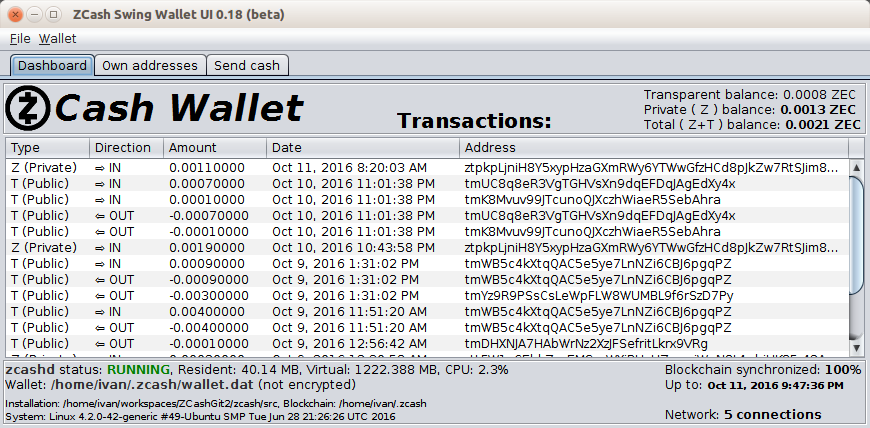
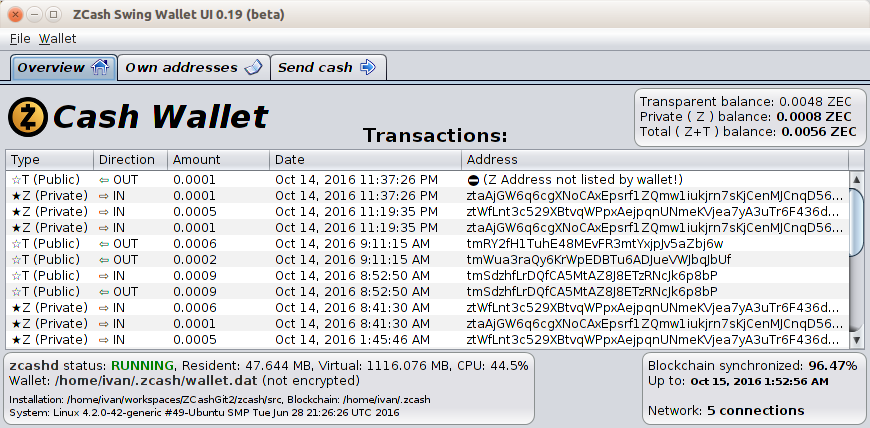
GUI cosmetic improvements

diff --git a/src/java/com/vaklinov/zcashui/PresentationPanel.java b/src/java/com/vaklinov/zcashui/PresentationPanel.java
@@ -1,0 +1,105 @@
+/************************************************************************************************
+ *  _________          _     ____          _           __        __    _ _      _   _   _ ___
+ * |__  / ___|__ _ ___| |__ / ___|_      _(_)_ __   __ \ \      / /_ _| | | ___| |_| | | |_ _|
+ *   / / |   / _` / __| '_ \\___ \ \ /\ / / | '_ \ / _` \ \ /\ / / _` | | |/ _ \ __| | | || |
+ *  / /| |__| (_| \__ \ | | |___) \ V  V /| | | | | (_| |\ V  V / (_| | | |  __/ |_| |_| || |
+ * /____\____\__,_|___/_| |_|____/ \_/\_/ |_|_| |_|\__, | \_/\_/ \__,_|_|_|\___|\__|\___/|___|
+ *                                                 |___/
+ *
+ * Copyright (c) 2016 Ivan Vaklinov <ivan@vaklinov.com>
+ *
+ * Permission is hereby granted, free of charge, to any person obtaining a copy
+ * of this software and associated documentation files (the "Software"), to deal
+ * in the Software without restriction, including without limitation the rights
+ * to use, copy, modify, merge, publish, distribute, sublicense, and/or sell
+ * copies of the Software, and to permit persons to whom the Software is
+ * furnished to do so, subject to the following conditions:
+ *
+ * The above copyright notice and this permission notice shall be included in
+ * all copies or substantial portions of the Software.
+ *
+ * THE SOFTWARE IS PROVIDED "AS IS", WITHOUT WARRANTY OF ANY KIND, EXPRESS OR
+ * IMPLIED, INCLUDING BUT NOT LIMITED TO THE WARRANTIES OF MERCHANTABILITY,
+ * FITNESS FOR A PARTICULAR PURPOSE AND NONINFRINGEMENT. IN NO EVENT SHALL THE
+ * AUTHORS OR COPYRIGHT HOLDERS BE LIABLE FOR ANY CLAIM, DAMAGES OR OTHER
+ * LIABILITY, WHETHER IN AN ACTION OF CONTRACT, TORT OR OTHERWISE, ARISING FROM,
+ * OUT OF OR IN CONNECTION WITH THE SOFTWARE OR THE USE OR OTHER DEALINGS IN
+ * THE SOFTWARE.
+ **********************************************************************************/
+package com.vaklinov.zcashui;
+
+import java.awt.BasicStroke;
+import java.awt.Color;
+import java.awt.FlowLayout;
+import java.awt.Graphics;
+import java.awt.Graphics2D;
+import java.awt.LinearGradientPaint;
+import java.awt.RenderingHints;
+import java.awt.Stroke;
+
+import javax.swing.JPanel;
+
+
+/**
+ * Panel with gradient background etc. for pretty label presentations.
+ *
+ * @author Ivan Vaklinov <ivan@vaklinov.com>
+ */
+public class PresentationPanel 
+	extends JPanel 
+{
+	static final int GRADIENT_EXTENT = 17;
+
+	static final Color  colorBorder = new Color(140, 145, 145);
+	static final Color  colorLow    = new Color(250, 250, 250);
+	static final Color  colorHigh   = new Color(225, 225, 230);
+	static final Stroke edgeStroke  = new BasicStroke(1);
+
+	
+	public PresentationPanel()
+	{
+		this.setLayout(new FlowLayout(FlowLayout.LEFT, 6, 6));
+	}
+	
+
+	public void paintComponent(Graphics graphics) 
+	{
+		int h = getHeight();
+		int w =  getWidth();
+		
+		if (h < GRADIENT_EXTENT + 1) 
+		{
+			super.paintComponent(graphics);
+			return;
+		}
+		
+		float percentageOfGradient = (float) GRADIENT_EXTENT / h;
+		
+		if (percentageOfGradient > 0.49f)
+		{
+			percentageOfGradient = 0.49f;
+		}
+		
+		Graphics2D graphics2D = (Graphics2D) graphics;
+		
+		float fractions[] = new float[] 
+		{ 
+			0, percentageOfGradient, 1 - percentageOfGradient, 1f 
+		};
+		
+		Color colors[] = new Color[] 
+		{ 
+			colorLow, colorHigh, colorHigh, colorLow 
+		};
+		
+		LinearGradientPaint paint = new LinearGradientPaint(0, 0, 0, h - 1, fractions, colors);
+		
+		graphics2D.setRenderingHint(RenderingHints.KEY_ANTIALIASING, RenderingHints.VALUE_ANTIALIAS_ON);
+		graphics2D.setPaint(paint);
+		graphics2D.fillRoundRect(0, 0, w - 1, h - 1, GRADIENT_EXTENT, GRADIENT_EXTENT);
+		graphics2D.setColor(colorBorder);
+		graphics2D.setStroke(edgeStroke);
+		graphics2D.drawRoundRect(0, 0, w - 1, h - 1, GRADIENT_EXTENT, GRADIENT_EXTENT);
+	}
+
+}

diff --git a/src/java/com/vaklinov/zcashui/DashboardPanel.java b/src/java/com/vaklinov/zcashui/DashboardPanel.java
@@ -114,24 +114,27 @@ public class DashboardPanel
 		JPanel balanceStatusPanel = new JPanel();
 		// Use border layout to have balances to the left
 		balanceStatusPanel.setLayout(new BorderLayout(3, 3)); 
-		balanceStatusPanel.setBorder(BorderFactory.createEtchedBorder(EtchedBorder.LOWERED));
+		//balanceStatusPanel.setBorder(BorderFactory.createEtchedBorder(EtchedBorder.LOWERED));
 		
-		JPanel tempPanel = new JPanel(new FlowLayout(FlowLayout.LEFT, 0, 0));
+		JPanel tempPanel = new JPanel(new FlowLayout(FlowLayout.LEFT, 5, 9));
 		JLabel logoLabel = new JLabel(new ImageIcon(
-			this.getClass().getClassLoader().getResource("images/zcash-logo-square3.png")));
+			this.getClass().getClassLoader().getResource("images/Z-yellow.orange-logo-small.png")));
 		tempPanel.add(logoLabel);
-		tempPanel.add(new JLabel(" "));
-		JLabel zcLabel = new JLabel("Cash Wallet       ");
-		zcLabel.setFont(new Font("Helvetica", Font.BOLD | Font.ITALIC, 37));
+		//tempPanel.add(new JLabel(" "));
+		JLabel zcLabel = new JLabel("Cash Wallet        ");
+		zcLabel.setFont(new Font("Helvetica", Font.BOLD | Font.ITALIC, 32));
 		tempPanel.add(zcLabel);
 		tempPanel.setToolTipText("Powered by ZCash");
 		balanceStatusPanel.add(tempPanel, BorderLayout.WEST);
 				
-		JLabel transactionHeadingLabel = new JLabel("<html><br/>Transactions:</html>");
-		transactionHeadingLabel.setFont(new Font("Helvetica", Font.BOLD, 20));
+		JLabel transactionHeadingLabel = new JLabel(
+			"<html><span style=\"font-size:23px\"><br/></span>Transactions:</html>");
+		transactionHeadingLabel.setFont(new Font("Helvetica", Font.BOLD, 19));
 		balanceStatusPanel.add(transactionHeadingLabel, BorderLayout.CENTER);
 						
-		balanceStatusPanel.add(walletBalanceLabel = new JLabel(), BorderLayout.EAST);
+		PresentationPanel walletBalancePanel = new PresentationPanel();
+		walletBalancePanel.add(walletBalanceLabel = new JLabel());
+		balanceStatusPanel.add(walletBalancePanel, BorderLayout.EAST);
 		
 		dashboard.add(balanceStatusPanel, BorderLayout.NORTH);
 
@@ -144,9 +147,15 @@ public class DashboardPanel
 		// Lower panel with installation status
 		JPanel installationStatusPanel = new JPanel();
 		installationStatusPanel.setLayout(new BorderLayout(3, 3));
-		installationStatusPanel.setBorder(BorderFactory.createEtchedBorder(EtchedBorder.LOWERED));
-		installationStatusPanel.add(daemonStatusLabel = new JLabel(), BorderLayout.WEST);
-		installationStatusPanel.add(networkAndBlockchainLabel = new JLabel(), BorderLayout.EAST);		
+		//installationStatusPanel.setBorder(BorderFactory.createEtchedBorder(EtchedBorder.LOWERED));
+		PresentationPanel daemonStatusPanel = new PresentationPanel();
+		daemonStatusPanel.add(daemonStatusLabel = new JLabel());
+		installationStatusPanel.add(daemonStatusPanel, BorderLayout.WEST);
+		
+		PresentationPanel networkAndBlockchainPanel = new PresentationPanel();
+		networkAndBlockchainPanel.add(networkAndBlockchainLabel = new JLabel());
+		installationStatusPanel.add(networkAndBlockchainPanel, BorderLayout.EAST);		
+		
 		dashboard.add(installationStatusPanel, BorderLayout.SOUTH);
 
 		// Thread and timer to update the daemon status
@@ -572,7 +581,8 @@ public class DashboardPanel
 				t[2] = df.format(amount);
 			} catch (NumberFormatException nfe)
 			{
-				// TODO: log this
+				System.out.println("Error occurred while formatting amount: " + t[2] + 
+						           " - " + nfe.getMessage() + "!");
 			}
 		}
 

diff --git a/src/java/com/vaklinov/zcashui/ZCashUI.java b/src/java/com/vaklinov/zcashui/ZCashUI.java
@@ -31,6 +31,7 @@ package com.vaklinov.zcashui;
 
 import java.awt.Container;
 import java.awt.Dimension;
+import java.awt.Font;
 import java.awt.event.ActionEvent;
 import java.awt.event.ActionListener;
 import java.awt.event.KeyEvent;
@@ -79,9 +80,10 @@ public class ZCashUI
     public ZCashUI()
         throws IOException, InterruptedException, WalletCallException
     {
-        super("ZCash Swing Wallet UI 0.18 (beta)");
-        this.setIconImage(new ImageIcon(
-        	this.getClass().getClassLoader().getResource("images/Z-yellow.orange-logo.png")).getImage());
+        super("ZCash Swing Wallet UI 0.19 (beta)");
+        ClassLoader cl = this.getClass().getClassLoader();
+        
+        this.setIconImage(new ImageIcon(cl.getResource("images/Z-yellow.orange-logo.png")).getImage());
         
         Container contentPane = this.getContentPane();
         
@@ -91,9 +93,18 @@ public class ZCashUI
                 
         // Build content
         JTabbedPane tabs = new JTabbedPane();
-        tabs.add("Dashboard", dashboard = new DashboardPanel(installationObserver, clientCaller, errorReporter));
-        tabs.add("Own addresses", addresses = new AddressesPanel(clientCaller, errorReporter));
-        tabs.add("Send cash", sendPanel = new SendCashPanel(clientCaller, errorReporter));
+        Font oldTabFont = tabs.getFont();
+        Font newTabFont  = new Font(oldTabFont.getName(), Font.BOLD | Font.ITALIC, oldTabFont.getSize() * 57 / 50);
+        tabs.setFont(newTabFont);
+        tabs.addTab("Overview ",
+        		    new ImageIcon(cl.getResource("images/overview.png")),
+        		    dashboard = new DashboardPanel(installationObserver, clientCaller, errorReporter));
+        tabs.addTab("Own addresses ", 
+        		    new ImageIcon(cl.getResource("images/address-book.png")),
+        		    addresses = new AddressesPanel(clientCaller, errorReporter));
+        tabs.addTab("Send cash ", 
+        		    new ImageIcon(cl.getResource("images/send.png")),
+        		    sendPanel = new SendCashPanel(clientCaller, errorReporter));
         contentPane.add(tabs);
         
         this.walletOps = new WalletOperations(
